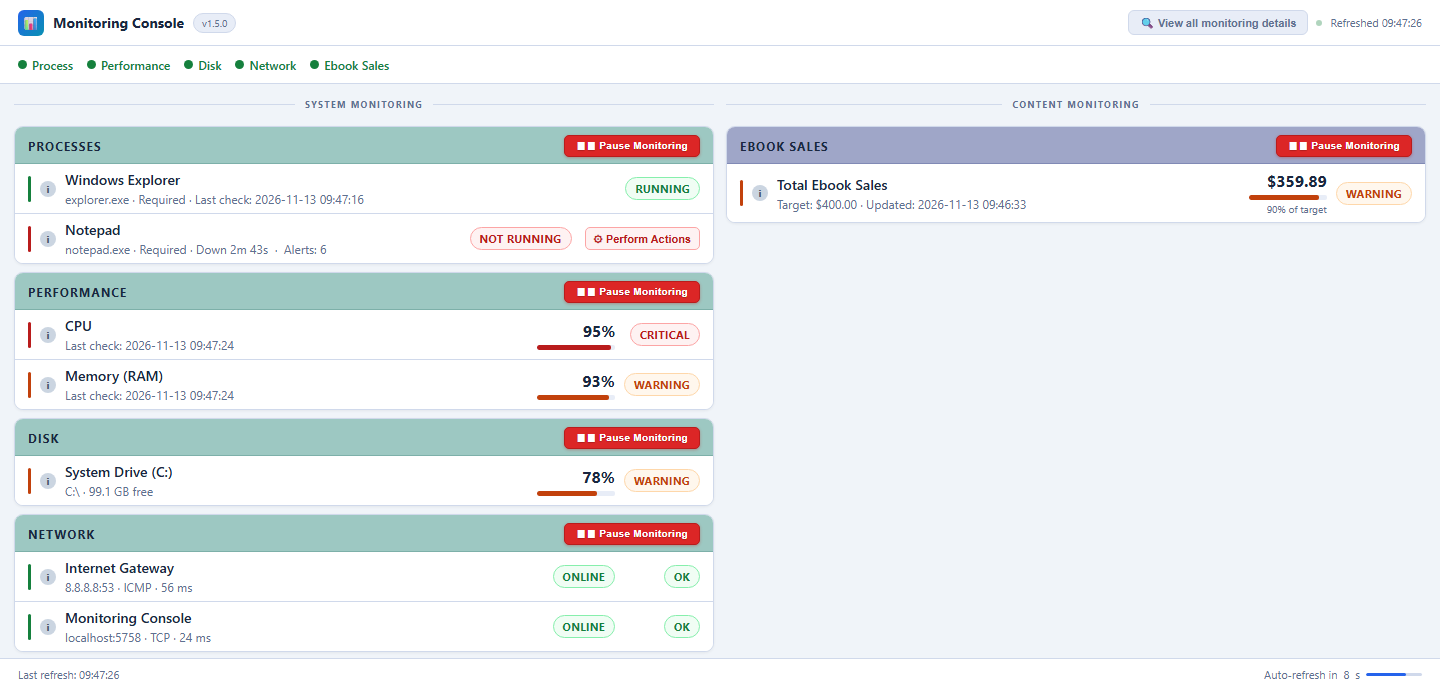
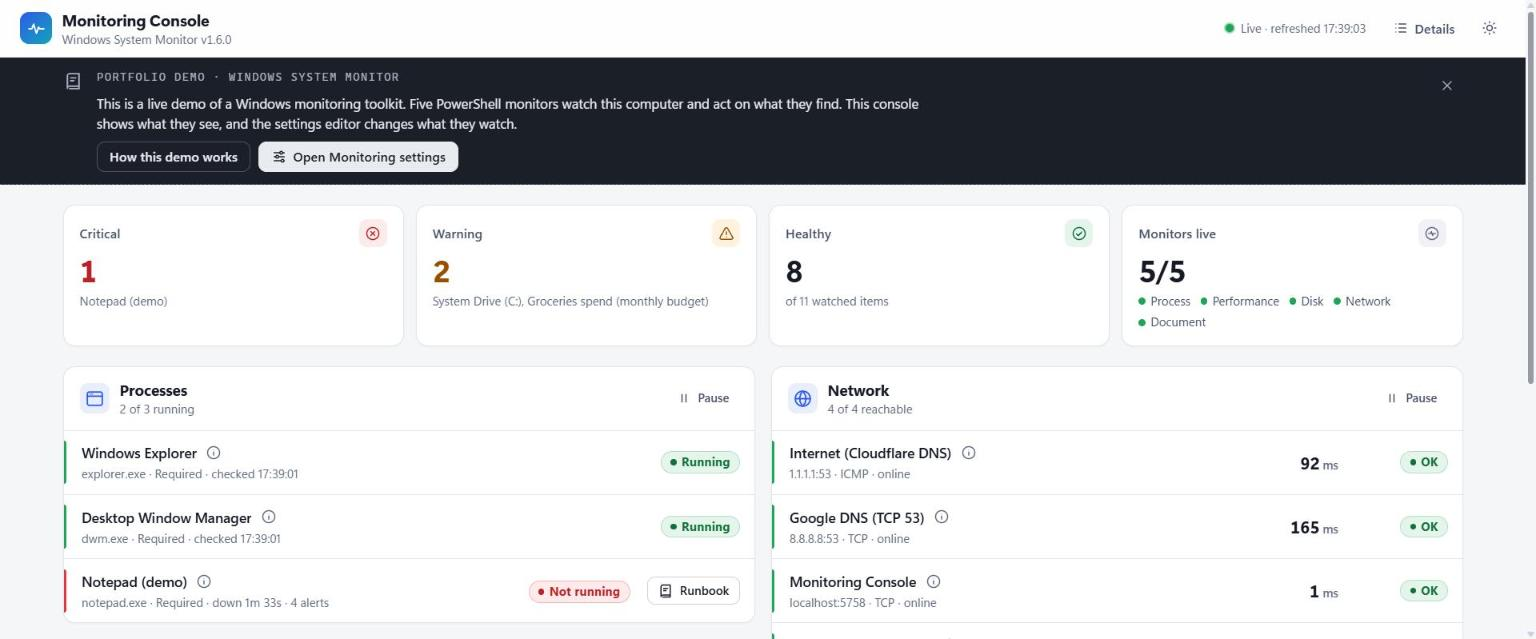
Release v1.6.0 (#13)
## Summary

Plan PR 12 of #1: the **v1.6.0 release**. It contains docs and
screenshots only; no code changes.

- **Screenshots refreshed** from the live app (all five monitors
running): `console.png` (light), `console-dark.png`,
`console-guide.png` ("How this demo works"), `console-runbook.png`
(replaces `console-instructions.png`) and
  `editor.png`.
- **`demo.gif`** is now a tour of those five screens. The old one showed
the v1.5 UI.
- **README:** a screenshot table with dark mode and the guide, and test
counts updated (180 Pester, 56 Python, plus the
  Docker smoke test).
- **CHANGELOG:**
  - `Unreleased` → `## [1.6.0] - 2026-11-13`, with a one-line summary;
  - compare links updated;
- stray `\r\r\n` line endings, which an earlier edit left in the file,
are removed.
- **`monitoring_settings.json`:** `_meta.version` is already `1.6.0`;
`last_updated` refreshed, and the editor's
  `DEFAULT_DATA` kept in sync.

After merge: tag `v1.6.0` and publish the GitHub release with the 1.6.0
notes.

## How it was tested

- Python (56 OK) and Pester (180 passed) suites; the doctor reports 0
FAIL.
- I checked every screenshot visually. Each was captured at 1536×639 in
Chrome against the real monitors.

## Checklist

- [x] `python -m unittest discover -s tests/python` and `Invoke-Pester
tests/powershell` pass
- [x] `doctor.bat` reports 0 FAIL
- [x] `_meta.version` (1.6.0) and `_meta.last_updated` bumped
- [x] `CHANGELOG.md`: Unreleased → 1.6.0
- [x] README and screenshots updated
[…]

diff --git a/README.md b/README.md
@@ -13,7 +13,7 @@ processes, CPU, memory, disk, network, or a business metric from a spreadsheet. 
 check it on their own schedules, fire escalating actions when something crosses a threshold, and report to a
 live web dashboard.
 
-![Dashboard demo: a process goes down, recovers, and goes down again](docs/screenshots/demo.gif)
+![A tour of the console: overview, the demo guide, a process runbook, dark mode, and the settings editor](docs/screenshots/demo.gif)
 
 ---
 
@@ -30,14 +30,19 @@ live web dashboard.
   ("How this demo works") for anyone trying it out.
 - **Self-diagnosing.** `doctor.bat` checks the environment, config schema, paths and running monitors. The launcher
   runs the same checks before starting anything, so a bad config fails loudly instead of silently.
-- **Tested.** 100+ Pester tests and a Python test suite, run on Windows PowerShell 5.1 in GitHub Actions.
+- **Tested.** 180 Pester tests and 56 Python tests on Windows PowerShell 5.1, plus a Docker smoke test on Linux,
+  in GitHub Actions.
 - **No dependencies beyond Windows and Python.** The web servers use only the Python standard library.
 
 ## Screenshots
 
-| Live console | Process runbook | Settings editor |
+| Live console | Dark mode | How this demo works |
 |---|---|---|
-| [![Console](docs/screenshots/console.png)](docs/screenshots/console.png) | [![Runbook modal](docs/screenshots/console-instructions.png)](docs/screenshots/console-instructions.png) | [![Editor](docs/screenshots/editor.png)](docs/screenshots/editor.png) |
+| [![Console](docs/screenshots/console.png)](docs/screenshots/console.png) | [![Console in dark mode](docs/screenshots/console-dark.png)](docs/screenshots/console-dark.png) | [![The demo guide panel](docs/screenshots/console-guide.png)](docs/screenshots/console-guide.png) |
+
+| Process runbook | Settings editor |
+|---|---|
+| [![Runbook for a stopped process](docs/screenshots/console-runbook.png)](docs/screenshots/console-runbook.png) | [![Editor](docs/screenshots/editor.png)](docs/screenshots/editor.png) |
 
 ## Architecture
 

diff --git a/CHANGELOG.md b/CHANGELOG.md
@@ -4,9 +4,14 @@ All notable changes to this project are documented here.
 The format follows [Keep a Changelog](https://keepachangelog.com/en/1.1.0/), and versions match
 `_meta.version` in `monitoring_settings.json`.
 
-## [Unreleased]
-
-### Added
+## [Unreleased]
+
+## [1.6.0] - 2026-11-13
+
+A portfolio-ready release: a redesigned UI with a built-in demo guide, a default test environment that works
+on any Windows PC, deduplicated alerts, a generic CSV/Excel document monitor, and a Docker demo.
+
+### Added
 - **Illustrations made with Google Gemini**: an app icon, a picture for the "How this demo works" panel, empty /
   paused / error state art in the console, and the README hero and social preview. Every slot has a fallback, so the
   app works without them; `docs/images.md` and `tools/prepare_images.py` show how to make them again.
@@ -77,5 +82,6 @@ First public release.
 - Config paths are relative to the project folder, so the repo runs from any location.
 - `{latency_ms}` in network templates refers to the threshold, consistent with the other monitors.
 
-[Unreleased]: https://github.com/carlosgild-web/windows-system-monitor/compare/v1.5.0...HEAD
+[Unreleased]: https://github.com/carlosgild-web/windows-system-monitor/compare/v1.6.0...HEAD
+[1.6.0]: https://github.com/carlosgild-web/windows-system-monitor/compare/v1.5.0...v1.6.0
 [1.5.0]: https://github.com/carlosgild-web/windows-system-monitor/releases/tag/v1.5.0
